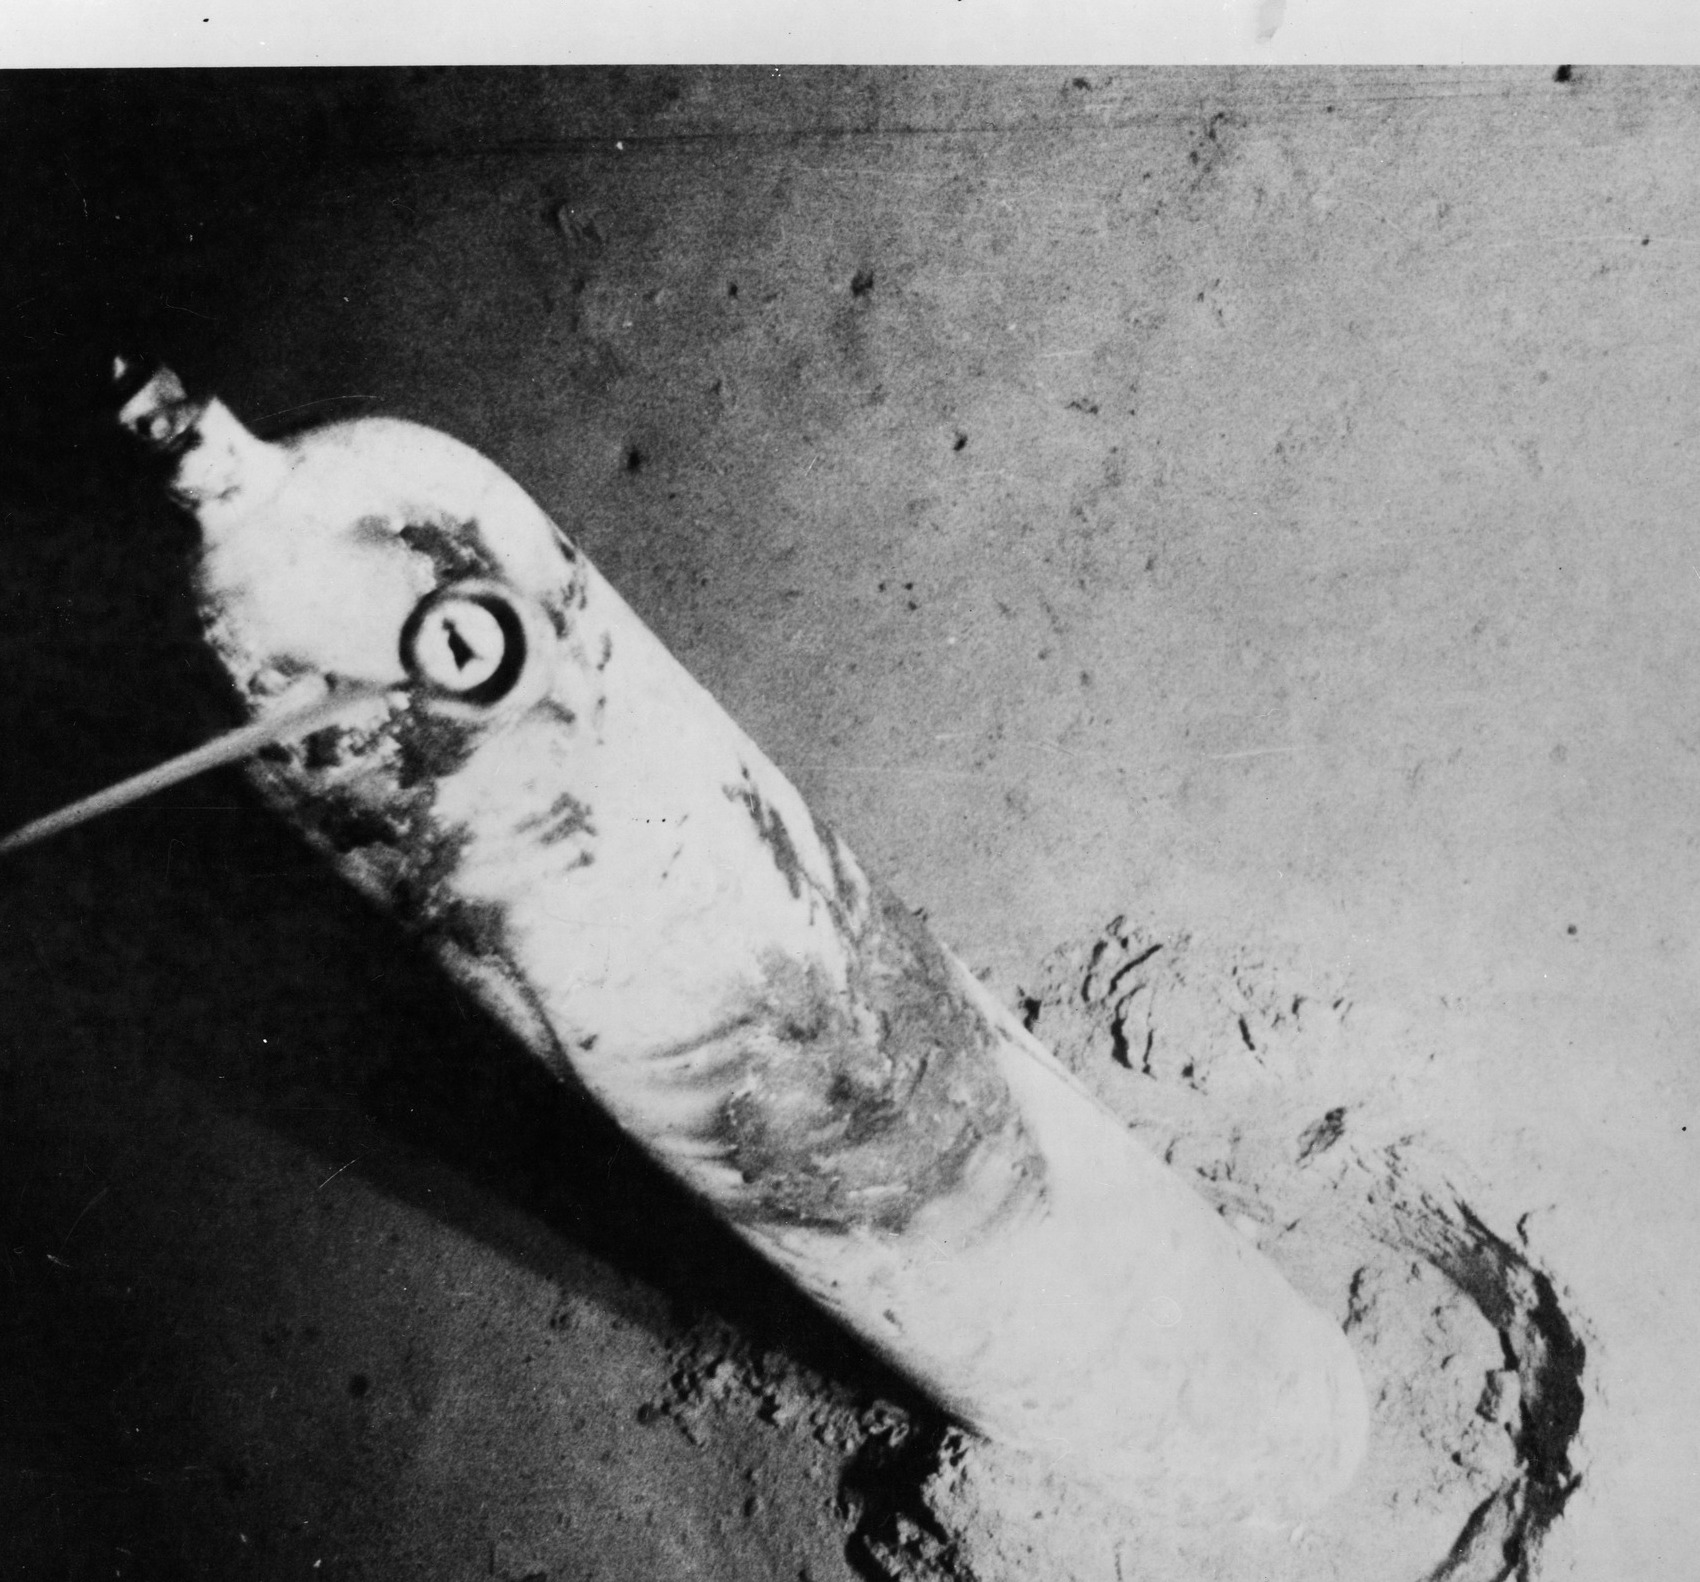
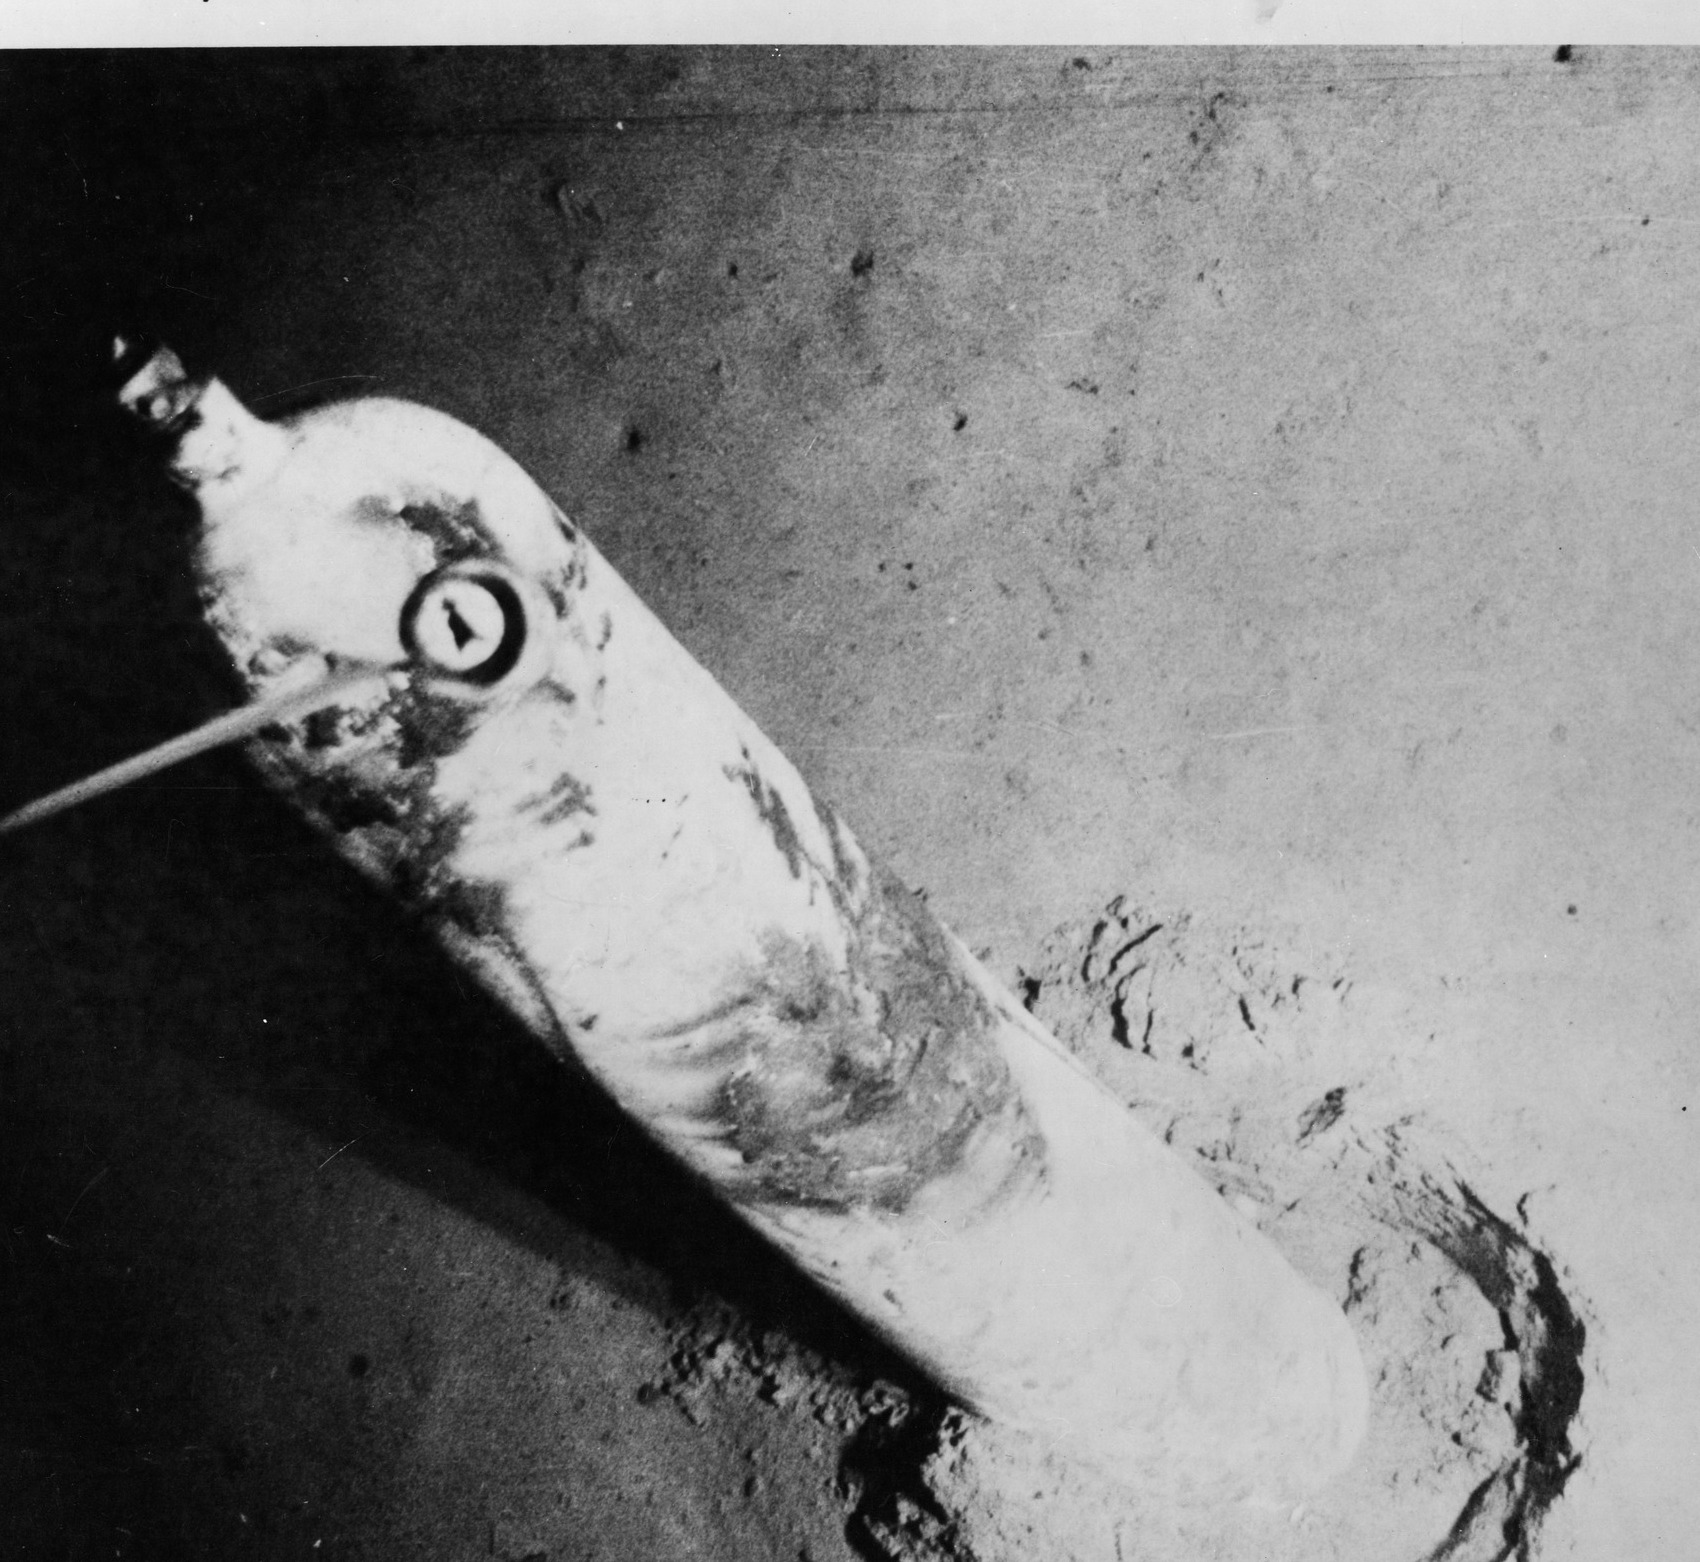
18本目⑤b-7a: 試し焼きの粗4つ（c203 の593が隠れる・c423／c627 の網点が目立つ・c722 の上の白い帯・c914 が暗い）
- c203: 16:9 の全画面 → 額装で丸ごと（寄りと字幕の帯で「593」の下が隠れた）
- c423・c627: 網点の印刷を全画面に引き伸ばした＝点が目立つ → 同じ切り口のまま額装（倍率を下げる）
- c722: 束の切り口を y 10 → 30（上の縁に白い細い帯が残った）
- c914: 濃淡補正 (55, 172)（切り口の中の明るさ p1 50・p99 171＝横舵がほとんど見えない・出典の行に「濃淡補正」）

diff --git a/tools/cuts/c4.py b/tools/cuts/c4.py
@@ -91,11 +91,12 @@ PLAN = {
 
 SPEC = {
     # ── 🆕 ⑤b-7a（2026-10-04）：写真の束（`qa_out/ep18_assets.py`・すべて米海軍の PD）──
-    # c423（5.7秒）＝上の人たちに、すぐには知らせなかった。289-T-2 のセイルのあたりを16:9 で全画面（c220・c627 と切り方を変える）
+    # c423（5.7秒）＝上の人たちに、すぐには知らせなかった。289-T-2 のセイルのあたりを16:9 に切って額装（c220・c627 と切り方を変える）
+    #   ⚠ 試し焼き 37206148473：全画面だと網点の印刷の点が大きく見えた＝額装（倍率を下げる）
     "c423": dict(
         t="すぐには届かなかった知らせ",
         s="浮上して走るスレッシャーのセイル",
-        photo=P("running_t2"), trim=(0.0833, 0.0, 0.75, 0.7759),
+        photo=P("running_t2"), panel=True, trim=(0.0833, 0.0, 0.75, 0.7759),
     ),
     # ── 🆕 ⑤b-2（2026-10-04）：案C の置き場 SA（横から見た海・`tools/illu.py` の「18本目 ⑤b-2」の節）──
     #   人は描かない。潜水艦は 9:17 まで＝c411 で艦の絵を止める（cuts.ss.ILLU_SUB_STOP・kousei §4-1）／c420・c422 は潜水艦なし。

diff --git a/qa_out/ep18_assets.py b/qa_out/ep18_assets.py
@@ -89,7 +89,8 @@ PICK = {
     'shipyard_stern_t22': L('thr_t22.jpg', 'c208 c611', None, T289 + ' 289-T-22', U289, 'NARA 289-T-22',
                             note='造船所の写真：ドックの艦尾（上の舵・推進器の軸・横舵・足場）'),
     # ── 事故のあと（1963〜64年の海の底）───────────────────────────────
-    'bottle_t37': L('thr_t37.jpg', 'c722', 1964, T289 + ' 289-T-37', U289, 'NARA 289-T-37', crop=(90, 10, 1790, 1592),
+    # ⚠ 試し焼き 37206148473：上の縁に白い細い帯が残った（y 10 から切った）＝y 30 から
+    'bottle_t37': L('thr_t37.jpg', 'c722', 1964, T289 + ' 289-T-37', U289, 'NARA 289-T-37', crop=(90, 30, 1790, 1592),
                     note='1964年 海の底の空気のボンベ（上にカメラのそりの羅針・NRL/MIZAR）'),
     'hull_aft_t33': L('thr_t33.jpg', 'c805', 1964, T289 + ' 289-T-33', U289, 'NARA 289-T-33', crop=(0, 250, 1800, 1720),
                       note='1964年 艦の後ろ寄りの外殻の継ぎ写真（モザイク・NRL/MIZAR）'),

diff --git a/tools/cuts/c6.py b/tools/cuts/c6.py
@@ -115,11 +115,12 @@ SPEC = {
         s="造船所で撮った艦尾の横舵と足場",
         photo=P("shipyard_stern_t22"), trim=(0.0, 0.3458, 1.0, 0.7908),
     ),
-    # c627（5.3秒）＝水が入ったら、タンクを吹く。289-T-2 の艦首のあたりを16:9 で全画面
+    # c627（5.3秒）＝水が入ったら、タンクを吹く。289-T-2 の艦首のあたりを16:9 に切って額装
+    #   ⚠ 試し焼き 37206148473：全画面だと網点の印刷の点が大きく見えた＝額装（倍率を下げる）
     "c627": dict(
         t="タンクを吹いて浮き上がる",
         s="浮上して走るスレッシャーの艦首",
-        photo=P("running_t2"), trim=(0.0, 0.1379, 0.6667, 0.9138),
+        photo=P("running_t2"), panel=True, trim=(0.0, 0.1379, 0.6667, 0.9138),
     ),
     # ── 🆕 ⑤b-4（2026-10-04）：仕組みの模式図（`tools/mech18.py`・門番 check_mech の judge_m18）──
     #   継手の形＝受け口の溝に**前もって入れた合金の輪**（証拠 X p.1185「preinserted rings of silver brazing alloy」）が溶けて、

diff --git a/tools/cuts/c2.py b/tools/cuts/c2.py
@@ -89,11 +89,12 @@ SPEC = {
         s="1960年7月9日　進水",
         photo=P("launch_1960"), trim=(0.0, 0.2005, 1.0, 0.9056),
     ),
-    # c203（8.0秒）＝1962年7月、整備に戻る。289-T-14 の上の写真（セイルの593）を16:9 で全画面
+    # c203（8.0秒）＝1962年7月、整備に戻る。289-T-14 の上の写真（セイルの593）＝横長＝額装で丸ごと
+    #   ⚠ 試し焼き 37206148473：16:9 の全画面にすると「593」の下が寄りと字幕の帯で隠れた＝額装に戻した
     "c203": dict(
         t="9か月の整備のはじまり",
         s="造船所で撮ったセイルの「593」",
-        photo=P("shipyard_sail_t14"), trim=(0.1402, 0.0, 1.0, 1.0),
+        photo=P("shipyard_sail_t14"), **ss.kind(P("shipyard_sail_t14")),
     ),
     # c208（8.2秒）＝衝撃試験で継手・金具・ボルトが傷んだ。289-T-22（ドックの艦尾・縦長）＝額装で丸ごと
     "c208": dict(

diff --git a/tools/cuts/c9.py b/tools/cuts/c9.py
@@ -96,10 +96,12 @@ SPEC = {
         photo=P("page24"), **ss.kind(P("page24")),
     ),
     # c914（7.4秒）＝冷戦のなかで方針が技術に追いつかなかった（元艦長の見方）。289-T-26（右の横舵と聴音器）を16:9 で全画面
+    #   ⚠ 試し焼き 37206148473：暗く横舵がほとんど見えない（切り口の中の明るさ p1 50・p99 171）＝濃淡補正 (55, 172)
+    #   （中身は足さない・出典の行に「濃淡補正」が出る＝scene_jiko.credit_of）
     "c914": dict(
         t="技術の速さと海軍の方針",
         s="1964年　海の底の横舵と聴音器",
-        photo=P("stern_plane_t26"), trim=(0.0, 0.1802, 1.0, 0.8793),
+        photo=P("stern_plane_t26"), trim=(0.0, 0.1802, 1.0, 0.8793), levels=(55, 172),
     ),
     # c920（6.8秒）＝それでも海の底には艦が残っている。289-T-24 の喫水の数字（札の上まで・横長＝額装）
     "c920": dict(
